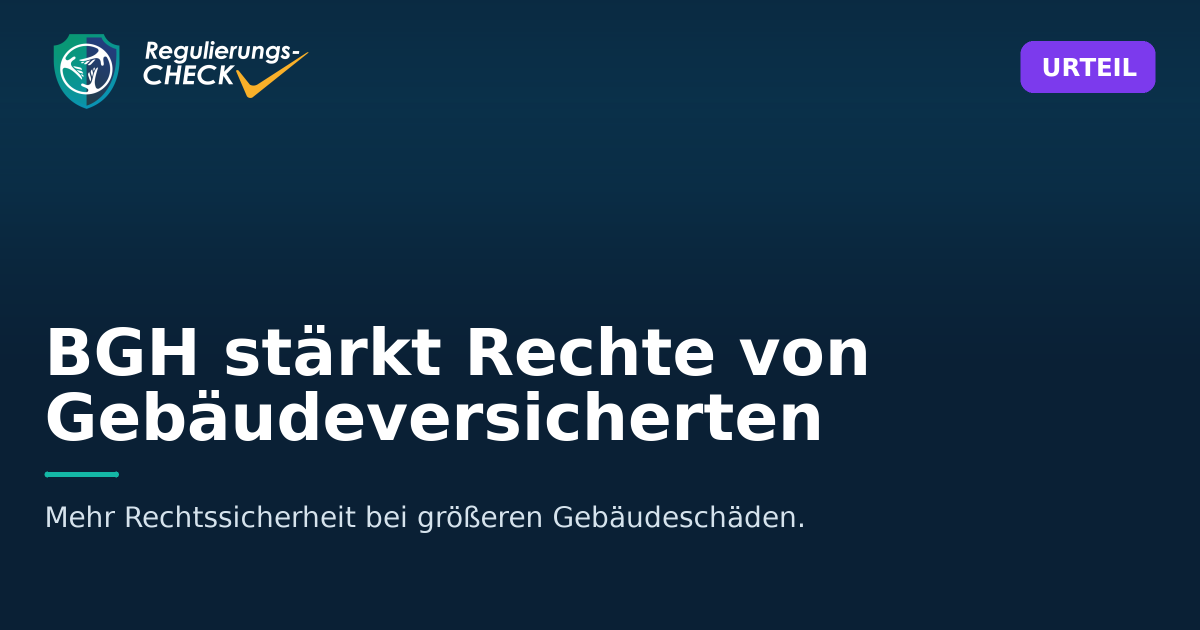
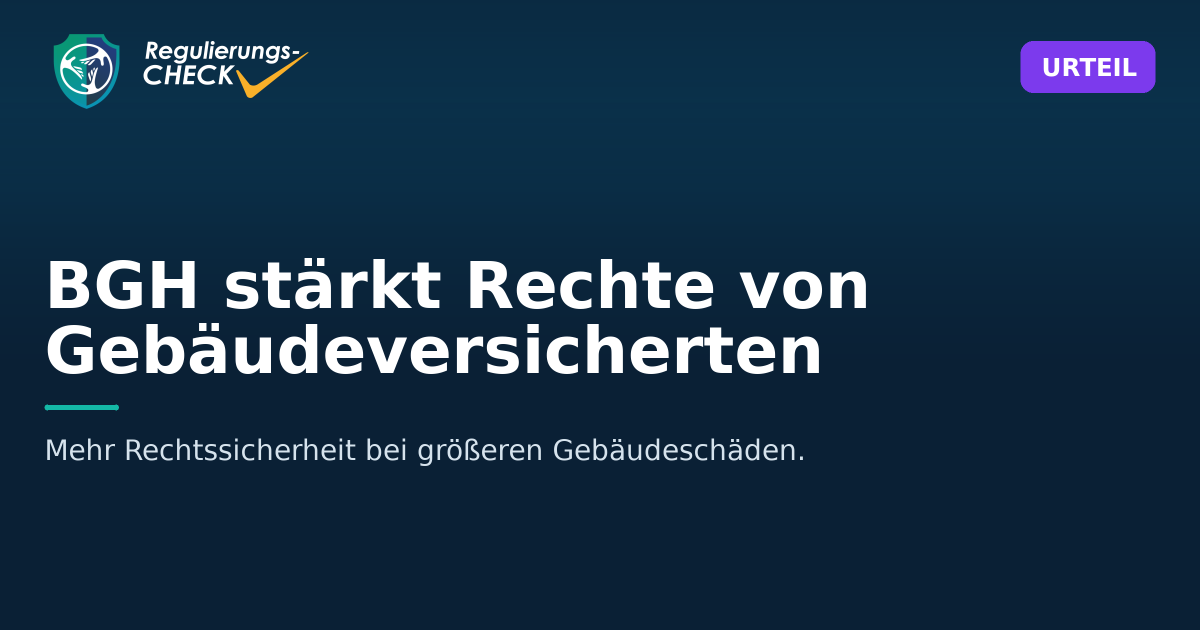
refactor: Preserve former button-height spacing in News social images and update layout version

Changed region(s): [[0.0308, 0.3921, 0.74, 0.7841], [0.0308, 0.7841, 0.6783, 0.8444]]

diff --git a/tests/Unit/NewsSocialImageTest.php b/tests/Unit/NewsSocialImageTest.php
@@ -34,24 +34,30 @@ class NewsSocialImageTest extends TestCase
         }
     }
 
-    /** Der fruehere weisse CTA-Button darf in keinem Zuschnitt mehr erscheinen. */
-    public function test_article_button_is_not_drawn_at_the_bottom_of_any_format(): void
+    /** Der entfernte CTA bleibt als ruhiger, leerer Abstand im Layout erhalten. */
+    public function test_former_article_button_area_stays_empty_in_every_format(): void
     {
         foreach (NewsSocialImage::FORMATS as $key => $spec) {
             $image = imagecreatefromstring((new NewsSocialImage($this->newsPost(), $key))->render());
-            $x = (int) round(200 * $spec['type']);
-            $y = (int) round($spec['height'] - 150 * $spec['type']);
-            $color = imagecolorat($image, $x, $y);
+            $areaTop = (int) ceil($spec['height'] - 204 * $spec['type']);
+            $areaBottom = (int) floor($spec['height'] - 96 * $spec['type']);
+            $nonNavyPixels = 0;
 
-            $this->assertSame([
-                10,
-                32,
-                53,
-            ], [
-                ($color >> 16) & 0xFF,
-                ($color >> 8) & 0xFF,
-                $color & 0xFF,
-            ], "Im Format {$key} muss der fruehere Buttonbereich frei bleiben.");
+            for ($y = $areaTop; $y <= $areaBottom; $y += 2) {
+                for ($x = 0; $x < $spec['width']; $x += 2) {
+                    $color = imagecolorat($image, $x, $y);
+
+                    if ([
+                        ($color >> 16) & 0xFF,
+                        ($color >> 8) & 0xFF,
+                        $color & 0xFF,
+                    ] !== [10, 32, 53]) {
+                        $nonNavyPixels++;
+                    }
+                }
+            }
+
+            $this->assertSame(0, $nonNavyPixels, "Im Format {$key} muss der fruehere Buttonbereich vollstaendig frei bleiben.");
 
             imagedestroy($image);
         }

diff --git a/app/Support/NewsSocialImage.php b/app/Support/NewsSocialImage.php
@@ -65,6 +65,11 @@ class NewsSocialImage
     /** Faktor fuer das Supersampling. */
     private const SCALE = 2;
 
+    /** Unterer Rand und bewusst freigehaltener Bereich des entfernten CTA. */
+    private const BOTTOM_MARGIN = 96;
+
+    private const FORMER_ARTICLE_BUTTON_HEIGHT = 108;
+
     /** Layout-Einheit: Supersampling mal Typo-Skalierung des Formats. */
     private float $unit;
 
@@ -160,7 +165,9 @@ class NewsSocialImage
             $this->drawLogo($canvas, $s);
             $this->drawBadge($canvas, $w, $s);
 
-            $contentBottom = $h - $this->px(96);
+            $contentBottom = $h - $this->px(
+                self::BOTTOM_MARGIN + self::FORMER_ARTICLE_BUTTON_HEIGHT
+            );
             $excerptTop = $this->drawExcerpt($canvas, $w, $contentBottom);
             $ruleTop = $this->drawAccentRule($canvas, $s, $excerptTop);
             $this->drawTitle($canvas, $w, $s, $ruleTop);

diff --git a/app/Http/Controllers/NewsSocialImageController.php b/app/Http/Controllers/NewsSocialImageController.php
@@ -24,7 +24,7 @@ class NewsSocialImageController extends Controller
      * Hochzaehlen, wenn sich das Bildlayout aendert - dann werden alle
      * abgelegten Staende beim naechsten Aufruf neu erzeugt.
      */
-    private const LAYOUT_VERSION = 4;
+    private const LAYOUT_VERSION = 5;
 
     /** Vorschau im Modal. */
     public function preview(Request $request, Post $post): Response

diff --git a/.lmzdev/COMMUNICATION.md b/.lmzdev/COMMUNICATION.md
@@ -23,3 +23,25 @@ Append-only communication log. Source and runtime evidence override stale entrie
 - Verified: 19 focused renderer/route tests passed with 94 assertions; PHP syntax and diff checks passed; all three output formats were visually inspected.
 - Artifacts: `.lmzdev/artifacts/images/news-social-without-button-story.png`, `.lmzdev/artifacts/images/news-social-without-button-square.png`, `.lmzdev/artifacts/images/news-social-without-button-landscape.png`
 - Next: Review and commit the narrowly scoped renderer, cache-version, and regression-test changes.
+
+## 2026-08-06T00:00:00Z | Codex -> all | start
+
+- Task: Keep an empty lower area equal to the former article-button height.
+- Status: in-progress
+- Changed: `.lmzdev/TASKS.md`, `.lmzdev/COMMUNICATION.md`
+- Verified: Current content anchor uses only the 96 px bottom margin; the removed button was 108 px high.
+- Artifacts: none
+- Next: Move the content anchor up by the former 108 px button height and update the visual regression test.
+
+## 2026-08-06T20:46:11Z | Codex -> all | status
+
+- Message: Started: Preserve the former button-height spacing in News social images
+
+## 2026-08-06T20:48:41Z | Codex -> all | handoff
+
+- Task: Preserve an empty lower area equal to the former article-button height.
+- Status: completed
+- Changed: `app/Support/NewsSocialImage.php`, `app/Http/Controllers/NewsSocialImageController.php`, `tests/Unit/NewsSocialImageTest.php`
+- Verified: 19 focused renderer/route tests passed with 94 assertions; PHP syntax and diff checks passed; all three formats were re-rendered and visually inspected.
+- Artifacts: `.lmzdev/artifacts/images/news-social-without-button-story.png`, `.lmzdev/artifacts/images/news-social-without-button-square.png`, `.lmzdev/artifacts/images/news-social-without-button-landscape.png`
+- Next: Review and commit the spacing correction and regenerated QA artifacts.

diff --git a/.lmzdev/STATE.md b/.lmzdev/STATE.md
@@ -4,15 +4,15 @@
 
 - LMZ Dev workspace initialized.
 - The embedded `ZUM ARTIKEL` button, link icon, and button-only color constant were removed from all News social-image formats.
-- The title/excerpt block now uses the released lower image area with the existing 96 px format-scaled bottom margin.
-- Social-image layout version is `4`, forcing cached images to be regenerated without the button.
+- The title/excerpt block keeps the former 108 px button height empty above the existing 96 px format-scaled bottom margin.
+- Social-image layout version is `5`, forcing cached images to be regenerated with the corrected spacing.
 
 ## Verification
 
 - `php artisan test tests\Unit\NewsSocialImageTest.php tests\Unit\NewsSocialImageRouteTest.php`: 19 tests passed, 94 assertions.
 - `php -l` passed for the renderer, controller, and focused test file.
 - `git diff --check` passed.
-- Story, square, and landscape artifacts were rendered and visually checked.
+- Story, square, and landscape artifacts were re-rendered and visually checked with the preserved CTA-height spacing.
 
 ## Risks and blockers
 

diff --git a/.lmzdev/DECISIONS.md b/.lmzdev/DECISIONS.md
@@ -7,3 +7,9 @@ Record durable decisions with date, context, decision, and consequences.
 - Removed the complete graphical article CTA instead of hiding only its text.
 - Re-anchored the remaining text content to the existing bottom margin so the released space is used cleanly in every format.
 - Increased `NewsSocialImageController::LAYOUT_VERSION` to `4` so cached legacy images cannot retain the old CTA.
+
+## 2026-08-06 | Preserve the removed CTA footprint
+
+- Supersedes the previous decision to use the released CTA space for text.
+- Keeps the former 108 px button height completely empty in addition to the existing 96 px bottom margin.
+- Increased the layout version to `5` so cached version-4 images are regenerated with the corrected spacing.

diff --git a/.lmzdev/TASKS.md b/.lmzdev/TASKS.md
@@ -4,3 +4,4 @@
 |---|---|---|---|
 | Review project state | unassigned | open | - |
 | Remove the embedded article button from News social-media images | Codex | completed | 2026-08-05T19:43:37Z |
+| Preserve the former button-height spacing below News social-image content | Codex | completed | 2026-08-06T20:48:41Z |
